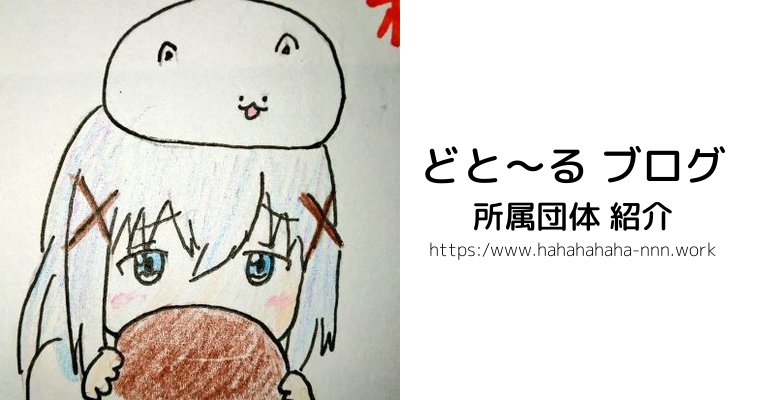
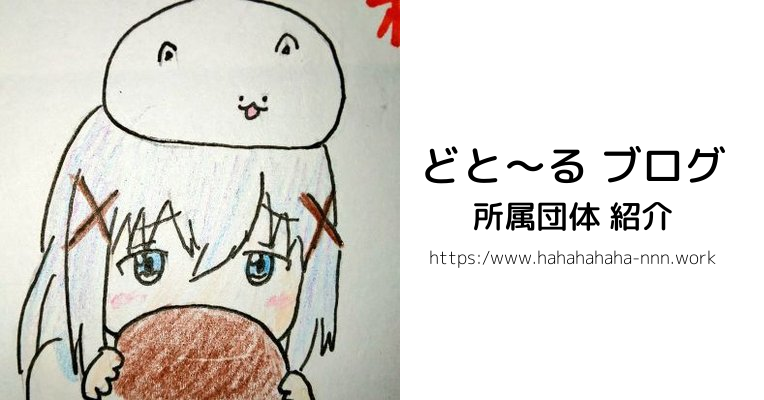
画像中の文字修正、文字入れに関しての記事作成

Changed region(s): [[0.5419, 0.6, 0.9332, 0.66]]

diff --git a/python/make-card-pic.py b/python/make-card-pic.py
@@ -15,11 +15,9 @@
 # Author : Hideto Niwa
 ##############################################################
 
-from os import stat_result
 from PIL import Image, ImageDraw, ImageFont
 import unicodedata
 import glob
-import re
 
 height = 400
 horizontal = 764
@@ -85,22 +83,6 @@ def make_image(font_path, img_path, text, x=0.0, y=0.0, font_size=32, font_color
                text, fill=font_color, font=font)
     img.save(img_path)
 
-# カードのdir情報を追加する部分
-def add_card_pic_data(file_path,card_path):
-    add_line=14 #追加する行数指定
-
-    file=open(file_path,'r',encoding="utf-8")
-    line=file.readline()
-    count=1
-
-    while line:
-        if count==add_line:
-            card_path=card_path[8:]
-            add_text='featured_image: .'+card_path
-        line=file.readline()
-        count+=1
-    #print(card_path)
-
 def add_card_info(file_path,card_path):
     f = open(file_path, 'r', encoding="utf-8")  # File Open（文字コード指定）
     datalist = f.readlines()
@@ -156,8 +138,6 @@ for i in file_list:
     else:
         make_image("./python/MPLUSRounded1c-Medium.ttf" ,save_pic_dir, title,horizontal*0.75, height*0.53,32)
 
-    make_image("./python/MPLUSRounded1c-Light.ttf" , save_pic_dir, "https:/www.hahahahaha-nnn.work",horizontal*0.75, height*0.62,18)
-    print(i)
-    add_card_pic_data(i,save_pic_dir) #カード画像を保存
+    make_image("./python/MPLUSRounded1c-Light.ttf" , save_pic_dir, "https:/www.hahahahaha-nnn.work",horizontal*0.75, height*0.64,18)
     add_card_info(i,save_pic_dir)
     print()

diff --git a/content/post/how_to_make_custom_card.md b/content/post/how_to_make_custom_card.md
@@ -1,0 +1,260 @@
+---
+# Documentation: https://sourcethemes.com/academic/docs/managing-content/
+
+title: "Twitterカードの作り方"
+subtitle: "Hugoで記事別にTwitterカードを作る方法"
+summary: ""
+authors: [HidetoNiwa]
+tags: [Hugo,Twitter]
+categories: [Hugo,Twitter]
+date: 2022-01-02T07:24:03Z
+lastmod: 2022-01-02T07:24:03Z
+featured: false
+draft: false
+
+card_image: "card/post/how_to_make_custom_card.png"
+# Featured image
+# To use, add an image named `featured.jpg/png` to your page's folder.
+# Focal points: Smart, Center, TopLeft, Top, TopRight, Left, Right, BottomLeft, Bottom, BottomRight.
+image:
+  caption: ""
+  focal_point: ""
+  preview_only: false
+
+# Projects (optional).
+#   Associate this post with one or more of your projects.
+#   Simply enter your project's folder or file name without extension.
+#   E.g. `projects = ["internal-project"]` references `content/project/deep-learning/index.md`.
+#   Otherwise, set `projects = []`.
+projects: []
+---
+
+## はじめに
+お久しぶりです。どと〜ること、にゎ〜んです。先日、このブログにページごとのTwitterカード画像を生成して適用させることができるようになったと、Tweetしました。このページではその方法に関して説明していきたいと思います。
+
+{{< tweet user="hahahahaha_NNN" id="1477264343045574656" >}}
+
+### 環境
+今回使用した環境は下記に列挙する環境です。version等揃える必要なない（と思う）ですが、この環境で作ってたんだーくらいは感じてください。
+
+- Hugo Extended
+- GitHub Pages
+- Python3.8
+
+## Twitterカードとは？
+
+先述のTweetの様に、Twitterにリンクを共有した際に、リンクが画像として表示される機能です。
+
+<メリット>
+- Twitter上で画像でリンクが出るのでクリックされやすい
+
+<デメリット>
+- クライアント側でTweetを見たときに画像を取得するので、データ通信量/サーバへの負荷がかかる？（多分）
+
+まぁ、圧倒的にメリット＞デメリットなので設定したほうがいいですね。
+
+## 実装
+
+では、いざ実装しましょう。下記のような順番で実装を行っていきます。
+- 画像生成
+  - 画像へブログ名＆記事名追加
+- 画像を記事に適用
+- 記事からカードを適用
+
+これらの処理には、一部の界隈で嫌われがちなPythonを用いました。（Python3.8）
+Pythonを利用した理由は、
+
+- 画像処理等の実装がライブラリを使って行うので楽
+- Windows,UbuntuなどOS間の互換性が高い
+
+と感じたからです。
+
+<details>
+<summary><a href="https://github.com/HidetoNiwa/HP/blob/master/python/make-card-pic.py">実装したコード</a>（Python）</summary>
+<script src="https://gist.github.com/HidetoNiwa/1e0f7220cc8f4ddc4dd90d090d108622.js" data-gist-line="1-20"></script>
+</details>
+
+### ベース画像の準備
+
+まずは、カードのベースとなる画像を用意します。今回は下記の画像を用いました。
+
+{{< figure src="https://github.com/HidetoNiwa/HP/blob/master/python/card.png?raw=true" title="ベース画像">}}
+
+### 記事一覧を取得
+
+記事一覧の取得を行うため、/content/以下のディレクトリの取得を行いました。また、記事ではないページのmarkdownの取得を行わないため、別途ignoreリストを作成して、除外しました。
+
+また、Python標準ライブラリである、globを用いているのでimportします。
+
+```Python
+import glob
+
+ignore_list = {"./content/privacy.md", "./content/terms.md","./content/authors/niwa/_index.md","./content/home/about.md","./content/home/index.md","./content/home/posts.md","./content/home/skills.md","./content/post/_index.md","./content/publication/_index.md","./content/talk/_index.md"}
+
+def get_dir():
+    path = './content/**/*.md'
+    file_list = glob.glob(path, recursive=True)
+    file_list = list(filter(lambda x: x not in ignore_list, file_list))
+    return file_list
+```
+
+### 記事からのタイトル取得
+
+記事からタイトルの取得を行うため、前に取得した記事リストから順にファイルオープンを行い記事のタイトルの抽出を行いました。
+
+```Python
+def get_title(file_path):
+    print("Open file...", file_path)
+
+    f = open(file_path, 'r', encoding="utf-8")  # File Open（文字コード指定）
+    datalist = f.readlines()
+    f.close()
+    title_string = "title: "
+
+    for i in range(len(datalist)):
+        text = datalist[i]
+        title = text.split('"')
+        if title[0] == title_string:
+            break
+    print(title)
+    return title[1]
+```
+
+### カード画像に文字入れ
+
+カード中に文字を入れるため、Pillowと呼ばれるPythonの画像ライブラリを用いました。これは、Pythonのライブラリとなるので、入っていない場合は下記コマンドで入れます。
+
+```bash
+pip3 install Pillow
+```
+
+このPillowを用いて、画像中に文字を入れています。文字のフォントは[Google Fonts](https://fonts.google.com/)のものを利用させていただきました。
+
+今回の関数では、フォント、画像ファイル、文字列、（文字を入れる）x座標、y座標、フォントサイズ、文字色を引数として扱っています。
+
+```Python
+from PIL import Image, ImageDraw, ImageFont
+def make_image(font_path, img_path, text, x=0.0, y=0.0, font_size=32, font_color="black"):
+    font = ImageFont.truetype(font_path, font_size)
+    img = Image.open(img_path)
+
+    img_d = ImageDraw.Draw(img)
+    text_size = img_d.textsize(text, font)  # テキストサイズの取得
+
+    img_d.text((x-(text_size[0]/2), y-(text_size[1]/2)),
+               text, fill=font_color, font=font)
+    img.save(img_path)
+```
+
+### 記事タイトル文字数取得
+
+記事タイトルが長すぎると、Twitterカード上の収まりが悪くなってしまいます。そのことを防ぐため、全角文字7文字以上で、
+
+文字サイズが小さくなるようにしました。その際、文字カウントを行ったのが下記コードになります。その際、UnicodedataといったPythonの標準ライブラリを用いてます。
+
+```Python
+import unicodedata
+def get_east_asian_width_count(text):
+    count = 0
+    for c in text:
+        if unicodedata.east_asian_width(c) in 'FWA':
+            count += 2
+        else:
+            count += 1
+    return count
+```
+
+### 記事にカード画像をリンク
+
+Hugoでは、最初の方に"---"で囲まれた部分があります。そこを、Front Matterと呼びます。
+
+このFront Matterと呼ばれる部分に、カード画像の保存場所を明記していきます。
+
+今回は、"card_image:"の後ろにカードのディレクトリを追記する形にしています。
+
+また、すでに記載されているかどうかの判定も行っています。（2重で記載するの防ぐため）
+
+```Python
+def add_card_info(file_path,card_path):
+    f = open(file_path, 'r', encoding="utf-8")  # File Open（文字コード指定）
+    datalist = f.readlines()
+    f.close()
+
+    card_path = card_path[13:]
+    img_string = "card_image:"
+    section_string = "---"
+
+    start_formatter = False
+    img_info = False
+
+    for i in range(len(datalist)):
+        text = datalist[i][:11]
+        if text == img_string:
+            img_info = True
+            break
+        text = text[:3]
+        if text == section_string:
+            if start_formatter:
+                break
+            else:
+                start_formatter=True
+    
+    card_info = img_string + " " + '"'+card_path+'"\n'
+    if img_info:
+        datalist[i]=card_info
+    else:
+        datalist.insert(14,card_info)
+
+    f = open(file_path, 'w', encoding="utf-8")  # File Open（文字コード指定）
+    f.writelines(datalist)
+    f.close()
+    return text
+```
+
+### Hugo Themeに適用
+
+さて、ここまでで、画像の生成・画像と記事の紐づけができました。最後は、HTMLにこのカードを紐づけましょう。
+
+自分が用いているテーマ（academic）では、これらの情報は /layouts/partials/site_head.htmlに記載されていました。
+> 基本的には<head>タグ内に書けば大丈夫です。
+
+実際に、カード画像を指定しているのは下記HTML文になります。つまりは、ここに画像が適用されれば良いです。
+```HTML
+<meta property="og:image" content="{{.}}">
+<meta property="twitter:image" content="{{.}}">
+```
+
+自分の環境では、$og_imageにうまいこと代入されれば良い感じでした。そこで下記のように編集しました。
+
+isset .Params "card_image"：これは、"card_image"が記事中で設定されていますよといった意味になります。
+
+そして、.Params.card_imageで記事から保存場所を引っ張ってきています。
+
+```GO
+{{ else if isset .Params "card_image" }}<!--Twitterカード等に用いられる画像があるかの判定、Front Matter-->
+  {{ $og_image = printf "img/%s" .Params.card_image | absURL }}
+```
+
+## Python動作
+
+さて、これでPythonを動作させて画像の生成・記事へファイルのリンクを行えば大丈夫です。Pythonファイルを、/python/make-card-pic.pyに保存しました。
+
+このファイルを実行するために、Hugoのトップディレクトリで下記コマンドを実行すれば自動で画像を生成してくれます！
+
+```bash
+python3 ./python/make-card-pic.py
+```
+
+## 最後に
+
+この記事を書いていたら思ったよりも長くなってしまいました。まぁ、これ関連のコード作成も研究等の兼ね合いから、1年くらいしてた気がします。
+
+現状、ローカルで画像を生成してコミットする形となってしまっているのが欠点です。また、記事のMarkDownがリネームされると対応できません。
+
+Draft（下書き）状態の記事にも画像を生成してしまいます...これらを踏まえると、下記の機能を実装したいですね。
+
+- GitHub Actionsで記事がGitHub Pagesに公開されるときに同時にカード画像が生成されるようにする
+- 使用されていない画像が無いか確認する
+- Title取得時にDraftかどうかの判定を行う
+
+最後まで読んでくれてありがとうございました！

diff --git a/content/links.md b/content/links.md
@@ -36,7 +36,7 @@ projects: []
 
 ### 関西春ロボコン運営委員会
 
-{{< figure src="https://pbs.twimg.com/profile_images/1219193661285519361/JcLlEmnb_400x400.jpg" class="center">}}
+{{< figure src="https://pbs.twimg.com/profile_images/1455761429777489922/XN138Ukf_400x400.jpg" class="center">}}
 
 #### 概要
 
@@ -44,24 +44,22 @@ projects: []
 
 #### 所属
 
-- 2021年大会 運営委員会長
 - 広報係
 - 資金獲得係
 
-> 運営委員会長として、運営委員会全体のマネジメントを行っています。<br>
+> 運営委員会全体のマネジメントを行っています。<br>
 > 大会の広報/資金獲得のお仕事もしています。
 
 #### 参考リンク
 
 - Home Page：[https://関西春ロボコン.com/](https://xn--tck4d2b0a0029dol2bn0r.com/)
 - Twitter：[@kansai_robocon](https://twitter.com/kansai_robocon)
+- Facebook：[@kansai.robocon](https://facebook.com/kansai.robocon/)
 - GitHub：[https://github.com/Kansai-SpringRobocon](https://github.com/Kansai-SpringRobocon)
-
-
 
 ### 一般社団法人次世代ロボットエンジニア支援機構（通称：Scramble）
 
-{{< figure src="https://scramble-robot.org/wp-content/uploads/2020/04/webpage_top_logo.png" class="center">}}
+{{< figure src="https://scramble-robot.org/wp-content/uploads/2020/04/webpage_top_logo.png" class="center" width="75%">}}
 
 #### 概要
 

diff --git a/README.md b/README.md
@@ -12,9 +12,14 @@ Hugo + GitHub Pagesで構成されています。
 
 ### 参考
 
-GitHub Actions でカスタムドメインの設定を行う方法([参考リンク](https://tech-wafter.net/2020/deploy-custom-domain-github-pages-on-github-actions/))
+- GitHub Actions でカスタムドメインの設定を行う方法([参考リンク](https://tech-wafter.net/2020/deploy-custom-domain-github-pages-on-github-actions/))
+- [サンプルページ](https://www.hahahahaha-nnn.work/sample/)
 
-[サンプルページ](https://www.hahahahaha-nnn.work/sample/)
+#### 新規ページ追加方法
+
+```bash
+hugo new post/（記事名）
+```
 
 ### License
 
